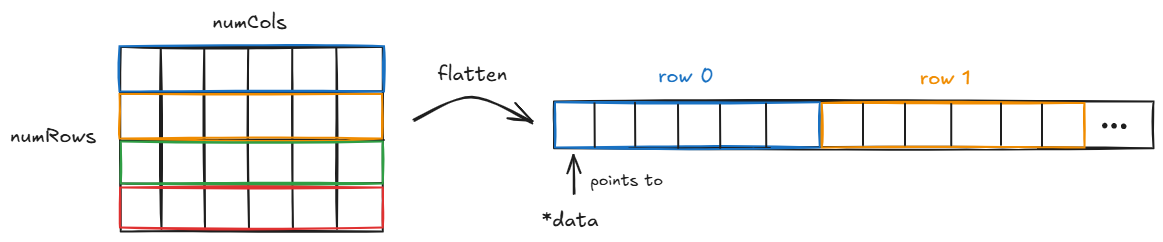
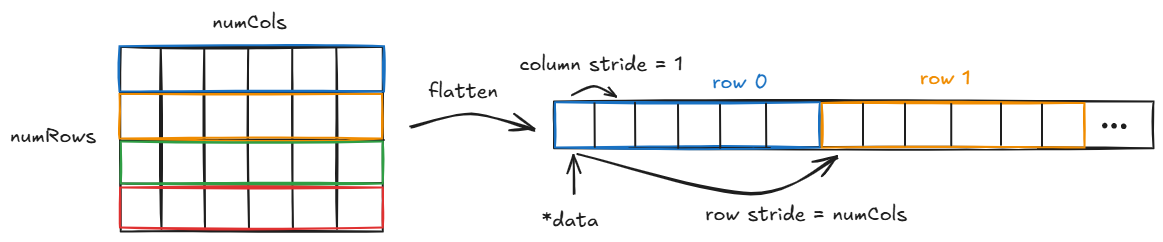
Update blog draft

diff --git a/blog/matmul.md b/blog/matmul.md
@@ -9,9 +9,14 @@
 ## Matrix multiplication
 
 Problem statement.
-Explain how matrices are multiplied mathematically.
+* Explain how matrices are multiplied mathematically.
+* Explain computational complexity of matmul --> O(2n^3)
 
-## Representing a matrix
+## The matrix datastructure
+
+A matrix is a collection of elements on a two-dimensional grid having a shared data type. Representing a matrix in C while fullfilling requirements for enabling advanced use-cases is not as straightforward as one might think. Therefore, we will build it from scratch in an iterative manner in this section. We will begin with the possibly simplest approach and then iteratively reduce the list of drawbacks in order to converge to the final matrix datastructure.
+
+### The naive approach
 For now the discussion will be restricted to matrices with a specific data type of each element, e.g. single-precision floating point numbers (float). This assumption will be relaxed after building the foundations for representing this subset of general matrices.
 
 Since a matrix is nothing else than a collection of numbers on a 2D grid the straightfoward way for representing it in C is a 2D array.
@@ -19,17 +24,10 @@ Since a matrix is nothing else than a collection of numbers on a 2D grid the str
 ```C
 float matrix[5][8];
 ```
+This is easily implemented and also comes with strightforward element access via the bracket operator. Additionally there is no need for dynamic memory management. But this is also a major drawback. Since the size of the stack is constraint we might run out of memory when allocating a very large matrix. Furthermore, the dimensions of the matrix need to be known at compile time which might not be possible in some use-cases.
 
-Pro:
-* Indexing straight forward: matrix[rowIdx][colIdx]
-* No memory management needed
-
-Despite being very simple this approach has several limitations
-* Matrix shape needs to be known at compile time
-* Matrix is allocated on the stack. Since the stack size is limited this can be a constraint in the representable matrix sizes.
-* No way to handle multiple data types in downstream computations
-
-In order to avoid these drawbacks we consider a more complicated definition of a matrix. Therefore a struct is defined which will contain important meta data and most importantly a pointer to the first element of the matrix.
+### Dynamic memory allocation
+In order to avoid these drawbacks we consider a more advanced definition of a matrix. Therefore a struct is defined which will contain important meta data and most importantly a pointer to the first element of the matrix.
 
 ```C
 typedef struct {
@@ -69,8 +67,8 @@ void freeMatrix(matrix_t *matrix) {
   matrix->numCols = 0;
 }
 ```
-
-Now let us address the third drawback, which is that we are currently only able to represent float matrices. We start by defining an enum representing the data type.
+### Adressing different data types
+Now let us address the third drawback of the naive approach, which is that we are currently only able to represent float matrices. We start by defining an enum representing the data type.
 
 ```C
 typedef enum {
@@ -104,7 +102,7 @@ matrix_t createMatrix(size_t numRows, size_t numCols, MatrixDType dtype) {
       elementSize = sizeof(float);
       break;
     case DTYPE_DOUBLE:
-      elementSoze = sizeof(double);
+      elementSize = sizeof(double);
       break;
     default:
       matrix.data = NULL;
@@ -136,3 +134,47 @@ Since accessing elements of the matrix is a quite common use case and the operat
 // TODO: Setter and getter
 ```
 We will revisit this issue once we implement the matrix multiplication.
+
+### Enabling zero cost shape operations
+The last extension of the data structure is the introduction of *column* and *row strides*. These encode by which value an element pointer needs to be increased in order to move to the next element along one of the two matrix dimensions. Using strides for element access enables shape operations to have basically zero cost. For example a matrix transpose can be achived by modifying the strides and the shape of the matrix while keeping the data buffer unmodified. The final datastructure is then given by
+```
+typedef struct matrix {
+    void *data;
+    size_t numRows;
+    size_t numCols;
+    size_t strides[2];
+    MatrixDType dtype;
+    size_t refcount;
+    struct matrix *base;
+    int ownsData;
+} matrix_t;
+```
+
+### The matrix view
+As you might noticed there is one more thing. The final version of the matrix datastructure includes several new fields: the `refcount`, a pointer to a base matrix object (`base`) and a flag indicating data ownership (`ownsData`). But why do we need it?
+These are necessary to introduce the concept of a *view*. A view is a standard matrix object with the distinction that it does not own the data buffer but inherited it from some base matrix. Since shape operations do not modify the data itself but only the meta-data we do not want to allocate new memory for the results of these operations. We want that the result of shape operations *share* a data buffer with the source operand. Therefore, a view can be returned instead.
+
+Freeing the allocated memory gets now more involved since we need to keep track of which matrix objects still need to access the data buffer. This can be seen best in the `freeMatrix` function
+```
+void freeMatrix(matrix_t *matrix) {
+    matrix->refcount--;
+    if (matrix->refcount == 0) {
+        if (matrix->ownsData && matrix->data != NULL) {
+            free(matrix->data);
+            matrix->data = NULL;
+            matrix->numRows = 0u;
+            matrix->numCols = 0u;
+            matrix->strides[0] = 0u;
+            matrix->strides[1] = 0u;
+        }
+        if (matrix->base) {
+            freeMatrix(matrix->base);
+        }
+        free(matrix);
+    }
+}
+```
+As can be seen the memory is now only freed if there are no references to it by external views indicated by the `refcount` and if the object owns the data buffer. 
+
+### Alternative representation of the data buffer
+Instead of having the data buffer be represented as a single contiguous array it would also have been possible to use an array of pointers for the matrix elements. This would avoid index calculations when accessing elements but at the cost of a potential heap fragmentation and making movement operations like the matrix transpose more involved. Furthermore having a single contiguous array enables scaling the matrix datastructure beyond two dimensions to a multi-dimensional array (a *tensor*) straight forward.
